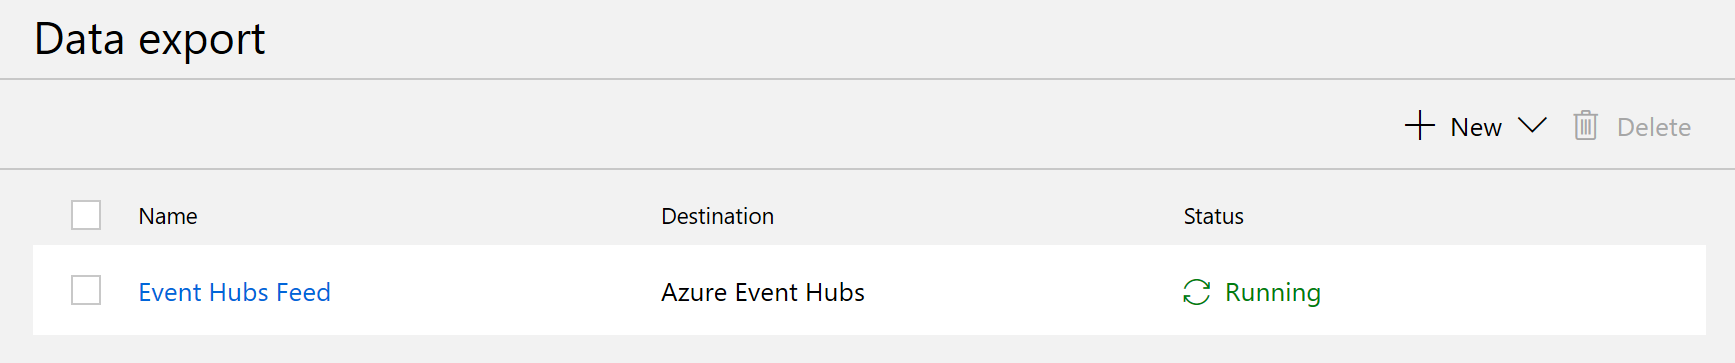
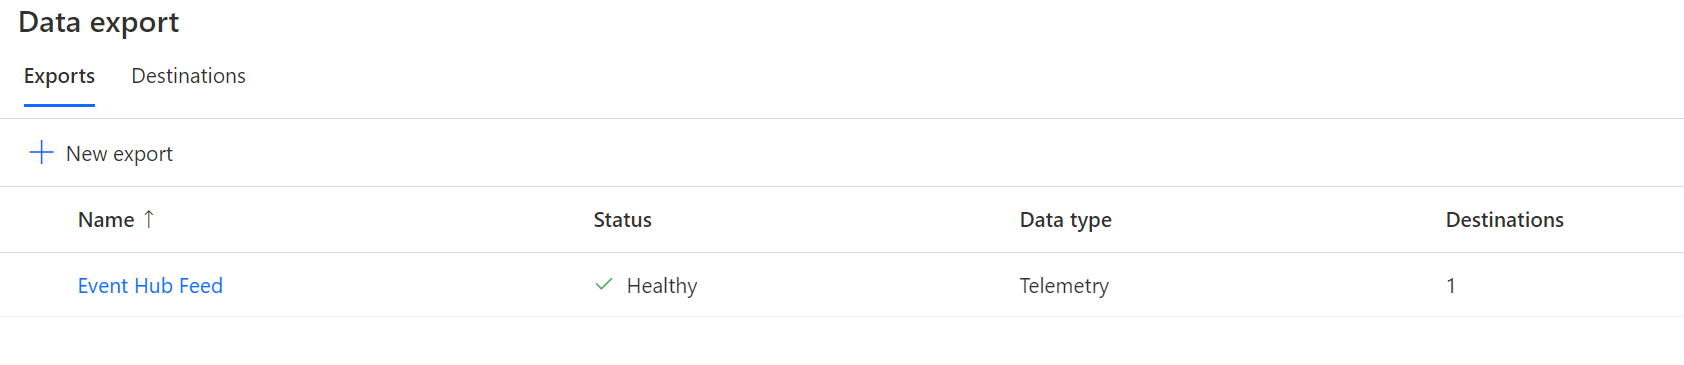
work in progress

diff --git a/Hands-on lab/HOL step-by step - Predictive Maintenance for remote field devices.md b/Hands-on lab/HOL step-by step - Predictive Maintenance for remote field devices.md
@@ -465,17 +465,13 @@ IoT Central provides a great first stepping stone into a larger IoT solution. A 
 
 The Event Hub we will be creating will act as a collector for data coming into IoT Central. The receipt of a message into this hub will ultimately serve as a trigger to send data into a machine learning model to determine if a pump is in a failing state. We will also create a Consumer Group on the event hub to serve as an input to an Azure Function that will be created later on in this lab.
 
-1. Log into the [Azure Portal](https://portal.azure.com).
+1. Log into the [Azure Portal](https://portal.azure.com), and open your **Fabrikam_Oil** resource group.
 
-2. In the left-hand menu, select **Resource Groups**.
-
-3. Open your **Fabrikam_Oil** resource group.
-
-4. On the top of the screen, select the **Add** button. When the marketplace screen displays, search for and select **Event Hubs**. This will allow you to create a new Event Hub Namespace resource.
+2. On the top of the screen, select the **Add** button. When the marketplace screen displays, search for and select **Event Hubs**. This will allow you to create a new Event Hub Namespace resource. Select the _Create_ button on the resource overview screen.
 
    ![Searching for the Event Hubs in the Azure Marketplace.](media/search-event-hubs.png "Search Event Hubs")
 
-5. Configure the event hub as follows, select the *Review + create** button, and then **Create**:
+3. Configure the event hub as follows, select the *Review + create** button, and then **Create**:
 
    | Field          | Value                                 |
    | -------------- | ------------------------------------- |
@@ -487,11 +483,11 @@ The Event Hub we will be creating will act as a collector for data coming into I
 
    ![The creating event hub namespace options are displayed.](media/create-eventhub-namespace-form.png "Configure Event Hub Namespace")
 
-6. Once the Event Hubs namespace has been created, open it and select the **+ Event Hub** button at the top of the screen.
+4. Once the Event Hubs namespace has been created, open it and select the **+ Event Hub** button at the top of the screen.
 
    ![The Event Hub namespace screen is displayed. The create event hub button is circled.](media/add-eventhub-menu.png "Add new Event Hub")
 
-7. In the Create Event Hub form, configure the hub as follows and select the **Create** button:
+5. In the Create Event Hub form, configure the hub as follows and select the **Create** button:
 
    | Field        | Value            |
    | ------------ | ---------------- |
@@ -502,41 +498,38 @@ The Event Hub we will be creating will act as a collector for data coming into I
 
    ![The event hub creation screen is displaying the configuration options.  The create button is circled.](media/create-eventhub-form.png "Configure Event Hub")
 
-8. Once the Event Hub has been created, open it by selecting _Event Hubs_ in the left-hand menu, and selecting the hub from the list.
+6. Once the Event Hub has been created, open it by selecting _Event Hubs_ in the left-hand menu, and selecting the hub from the list.
 
-   ![The event hubs are listed. IOT central feed is shown and circled.](media/event-hub-listing.png "Event Hub Listing")
+   ![The event hubs are listed. iot-central-feed is highlighted.](media/event-hub-listing.png "Event Hub Listing")
 
-9. From the top menu, select the **+ Consumer Group** button to create a new consumer group for the hub. Name the consumer group _ingressprocessing_ and select the **Create** button.
+7. From the top menu, select the **+ Consumer Group** button to create a new consumer group for the hub. Name the consumer group _ingressprocessing_ and select the **Create** button.
 
    ![The event hub screen shows the ability to create a consumer group. The name is entered and the create button is circled.](media/create-consumer-group-form.png "Create Consumer Group")
 
 ### Task 2: Configure continuous data export from IoT Central
 
-1. Return to the IoT Central application, from the left-hand menu, select **Data Export**.
+1. Return to the IoT Central application, from the left-hand menu, select **Data export**. Then select the **+ New** button from the toolbar menu.
 
-   ![The dashboard is displayed and the left-hand menu has the Data Export link circled.](media/data-export-menu.png "Data Export Menu")
+   ![On the left-hand menu has the Data Export link highlighted along with the + New export button on the toolbar.](media/data-export-menu.png "Data Export Menu")
 
-2. From the _Data Export_ screen, select the **+ New** button from the top menu, and select **Azure Event Hubs**.
-
-   ![The new Data Export options are displayed. The Azure Event Hubs option is circled.](media/ce-eventhubs-menu.png "New Event Hubs export")
-
-3. IoT Central will automatically retrieve Event Hubs namespaces and Event Hubs from the connected Azure Account. Configure the data export as follows and select the **Save** button:
+2. Begin configuring the data export with the following values:
 
    | Field                | Value                                            |
    | -------------------- | ------------------------------------------------ |
-   | Display Name         | Event Hub Feed                                   |
-   | Enabled              | On                                               |
-   | Event Hubs Namespace | _select the namespace you created in Exercise 6_ |
-   | Event Hub            | iot-central-feed                                 |
-   | Measurements         | On                                               |
-   | Devices              | Off                                              |
-   | Device Templates     | Off                                              |
+   | Display Name  (Header)        | Event Hub Feed                                   |
+   | Enabled (Header)              | On                                               |
+   | Type of data to export | Telemetry |
+  
+3. In the _Destinations_ section, select the _create a new one_ link. Configure the new destination as follows, then select the _Create_ button:
 
-   ![The data export configuration fields are displayed.  The save button is circled.](media/create-data-export-form.png "Configure Data Export")
+    | Field                | Value                                            |
+    | -------------------- | ------------------------------------------------ |
+    | Destination name     | iot-central-event-hub-feed                                   |
+    | Destination type              | Azure Event Hubs                                               |
+    | Connection string | see subsection below on how to get the connection string |
+    | Event Hub | iot-central-feed |
 
-   > **Note**: If you cannot browse your subscription for the Event Hubs namespace due to using a trial app instead of pay-as-you-go, perform the following steps:
-
-   ![The error stating the user is unable to browse Event Hubs is highlighted.](media/iot-central-cannot-browse-event-hubs.png "Cannot browse event hubs")
+   Obtain the connection string as follows:
 
    1. Navigate to your Event Hubs namespace in the Azure portal.
 
@@ -546,13 +539,15 @@ The Event Hub we will be creating will act as a collector for data coming into I
 
    3. Return to IoT Central and paste the connection string into the **Connection string** field, then select the `iot-central-feed` event hub you created.
 
-        ![The data export configuration form is updated with the manual connection string for Event Hubs.](media/create-data-export-form-connection-string.png "Connection string added")
+   ![The Create destination modal is shown populated.](media/create-data-export-destination.png "Create destination modal")
 
-4. The Event Hub Feed export will be created, and then started (it may take a few minutes for the export to start)
+   ![The data export configuration fields are displayed.](media/create-data-export-form.png "Configure Data Export")
 
-   ![The Data Export screen displays the status of Event Hub creation. The status of starting is displayed.](media/ce-eventhubfeed-starting.png "Event Hub Export Starting")
+4. Select the _Save_ button from the toolbar menu on the _Event Hub Feed_ continuous export screen.
 
-   ![The Data Export screen displays the status of Event Hub creation. The status of running is displayed.](media/ce-eventhubfeed-running.png "Event Hub Export Running")
+5. The Event Hub Feed export will be created, and then started (it may take a few minutes for the export to start). Return to the Data export list to see the current status of the feed.
+
+   ![The Data Export screen displays the status of Event Hub creation. The status of healthy is displayed.](media/ce-eventhubfeed-running.png "Event Hub Feed is Healthy")
 
 ## Exercise 6: Use Azure Databricks and Azure Machine Learning service to train and deploy predictive model
 
